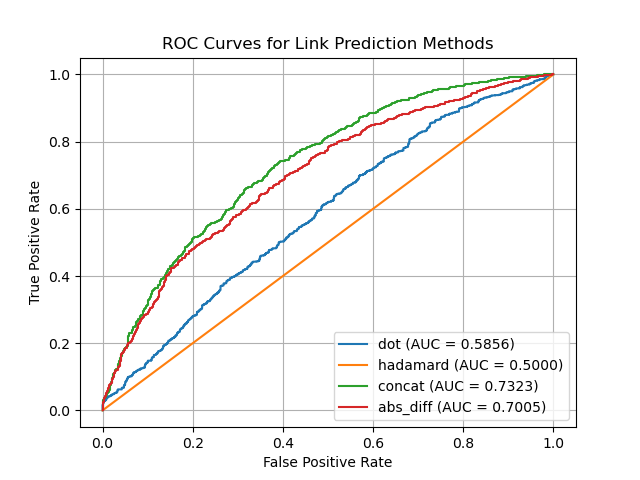
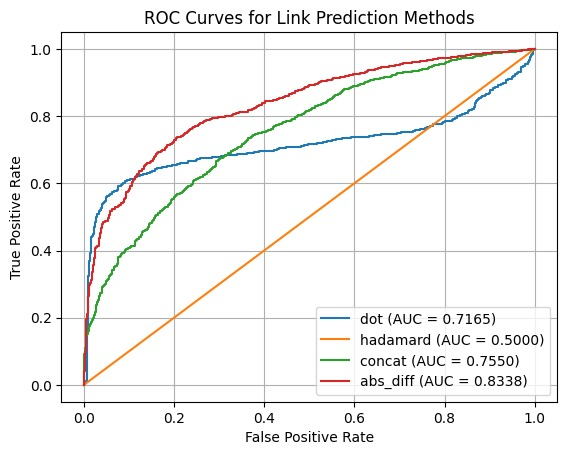
Update changes

diff --git a/redme/README ex 4.md b/redme/README ex 4.md
@@ -5,16 +5,16 @@ This project implements and evaluates the **Node2Vec** algorithm for graph embed
 1. Sampling **pq-walks** for nodes.
 2. Implementing the Node2Vec embedding model and its training.
 3. Evaluating the performance of the embeddings for:
-   - **Node Classification**
-   - **Link Prediction** (on both **Cora** and **PPI** datasets).
+    - **Node Classification**
+    - **Link Prediction** (on both **Cora** and **PPI** datasets).
 
 ---
 
 ## Table of Contents
 1. [Implementation Details](#implementation-details)
 2. [Evaluation Results](#evaluation-results)
-   - [Node Classification](#node-classification)
-   - [Link Prediction](#link-prediction)
+    - [Node Classification](#node-classification)
+    - [Link Prediction](#link-prediction)
 ---
 
 ## Implementation Details
@@ -35,13 +35,13 @@ The Node2Vec model:
 
 ### 4. Link Prediction
 - For link prediction, embeddings of two nodes are combined using methods such as:
-  - **Dot Product**
-  - **Hadamard Product**
-  - **Concatenation**
-  - **Absolute Difference**
+    - **Dot Product**
+    - **Hadamard Product**
+    - **Concatenation**
+    - **Absolute Difference**
 - Performance is evaluated using:
-  - **ROC AUC (Receiver Operating Characteristic - Area Under Curve)**
-  - **AP (Average Precision)**
+    - **ROC AUC (Receiver Operating Characteristic - Area Under Curve)**
+    - **AP (Average Precision)**
 
 ---
 
@@ -49,40 +49,37 @@ The Node2Vec model:
 
 ### Node Classification
 
-| Metric         | Train Accuracy | Validation Accuracy | Test Accuracy |
-|----------------|----------------|---------------------|---------------|
-| **Accuracy**   | 100.0%         | 58.4%               | 48.4%         |
+| Metric       | Train Accuracy | Validation Accuracy | Test Accuracy |
+|--------------|----------------|---------------------|---------------|
+| **Accuracy** | 100.0%         | 58.4%               | 48.4%         |
 
 #### Classification Report (Test Set)
-| Class | Precision | Recall | F1-Score | Support |
-|-------|-----------|--------|----------|---------|
-| 0     | 0.1517    | 0.2462 | 0.1877   | 130     |
-| 1     | 0.1939    | 0.2088 | 0.2011   | 91      |
-| 2     | 0.2111    | 0.1319 | 0.1624   | 144     |
-| 3     | 0.3153    | 0.2006 | 0.2452   | 319     |
-| 4     | 0.1397    | 0.1275 | 0.1333   | 149     |
-| 5     | 0.1528    | 0.2136 | 0.1781   | 103     |
-| 6     | 0.0763    | 0.1406 | 0.0989   | 64      |
+| Class | Precision | Recall  | F1-Score | Support |
+|-------|-----------|---------|----------|---------|
+| 0     | 0.1517    | 0.2462  | 0.1877   | 130     |
+| 1     | 0.1939    | 0.2088  | 0.2011   | 91      |
+| 2     | 0.2111    | 0.1319  | 0.1624   | 144     |
+| 3     | 0.3153    | 0.2006  | 0.2452   | 319     |
+| 4     | 0.1397    | 0.1275  | 0.1333   | 149     |
+| 5     | 0.1528    | 0.2136  | 0.1781   | 103     |
+| 6     | 0.0763    | 0.1406  | 0.0989   | 64      |
 
-The overall test accuracy was **59**
+The overall test accuracy was **48.4%**.
 
 ### Link Prediction (Cora)
 
 #### Methods and Results
-![link_prediction_roc_curves.png](..%2Flink_prediction_roc_curves.png)
 
-
-| Combination Method | ROC AUC | AP Score |
-|--------------------|---------|----------|
-| **Dot Product**    | 0.5856  | 0.5772   |
-| **Hadamard Product** | 0.5000  | 0.5000   |
-| **Concatenation**  | 0.7323  | 0.7113   |
-| **Absolute Difference** | 0.7005  | 0.6911   |
+| Combination Method     | ROC AUC | AP Score |
+|------------------------|---------|----------|
+| **Dot Product**        | 0.7165  | 0.7890   |
+| **Hadamard Product**   | 0.5000  | 0.5000   |
+| **Concatenation**      | 0.7550  | 0.7693   |
+| **Absolute Difference**| 0.8338  | 0.8483   |
 
 #### Observations:
-- **Concatenation** performed the best with a **ROC AUC of 0.7323** and an **AP score of 0.7113**.
-- **Dot Product** and **Absolute Difference** also provided meaningful results.
-- **Hadamard Product** failed to perform better than random guessing.
+- **Absolute Difference** performed the best with a **ROC AUC of 0.8338** and an **AP score of 0.8483**.
+- **Concatenation** and **Dot Product** also provided strong results, with ROC AUC scores of **0.7550** and **0.7165**, respectively.
+- **Hadamard Product** did not perform better than random guessing, yielding a ROC AUC of **0.5000**.
 
 ---
-
